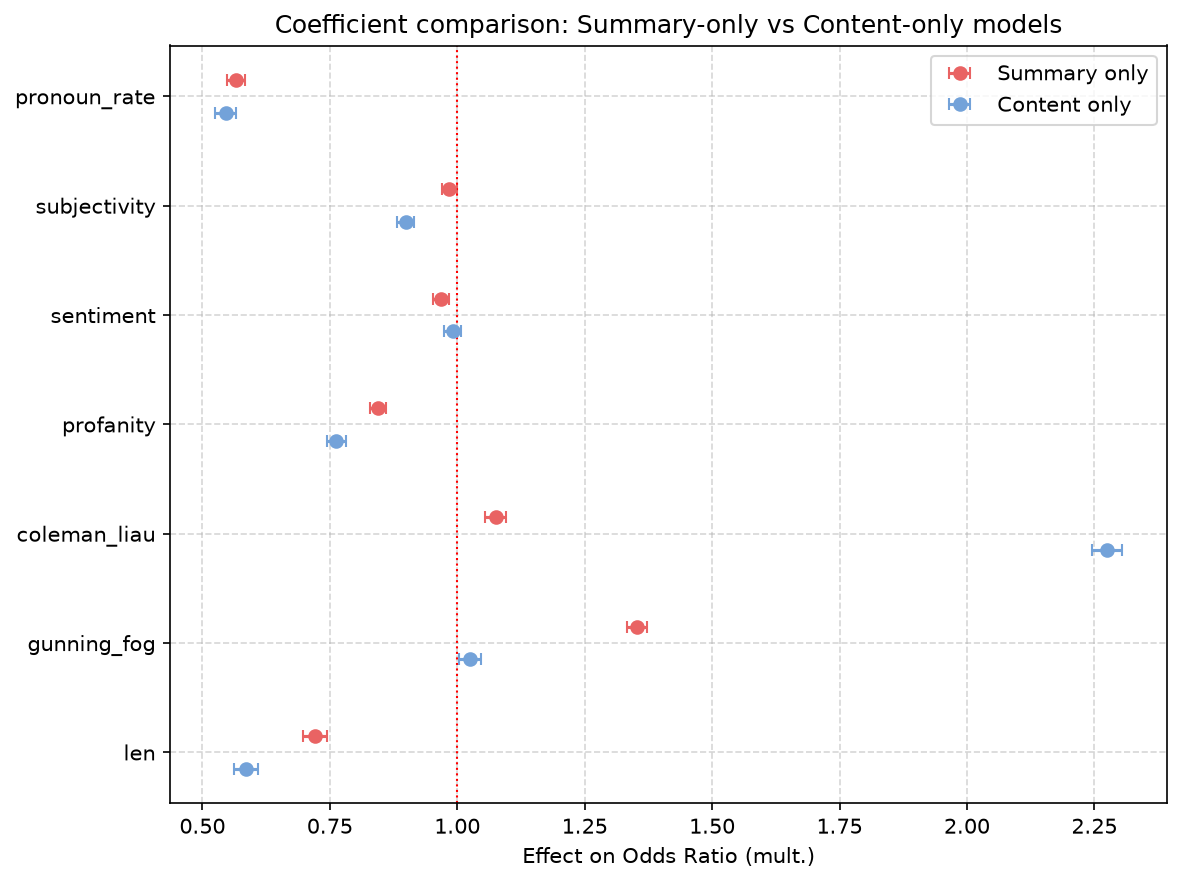
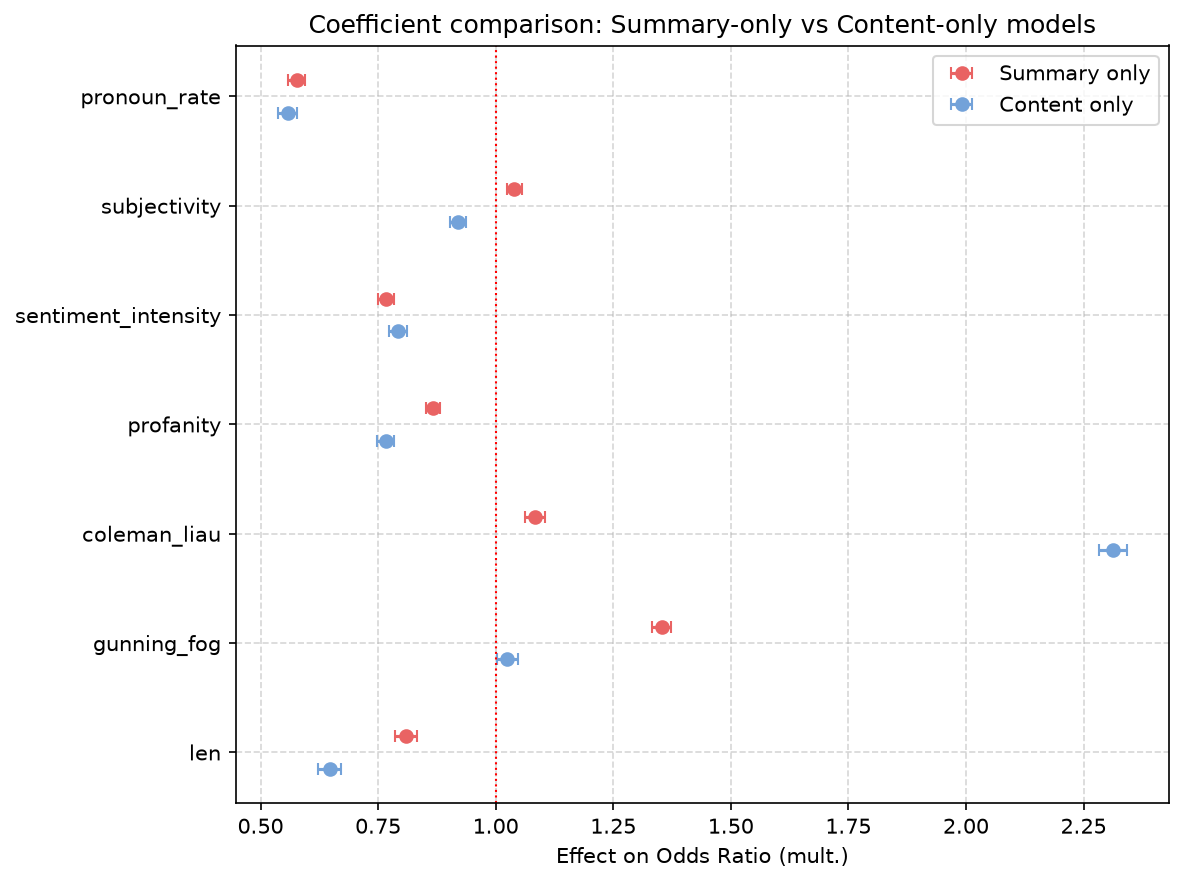
Update the figures and report

diff --git a/README.md b/README.md
@@ -138,23 +138,22 @@ Adding summary and cross-text features (cosine similarity, entity retention) to 
 
 ### Predictors
 
-A handful of features has revealed dominant contribution to the content-only model's prediction (Figure 3, Table 2). Lexical complexity, measured via the Coleman-Liau Index, shows the strongest effect (β = 0.82, OR = 2.28, 95% CI [2.21, 2.34]): a
-one-standard-deviation increase in lexical complexity more than doubles the
-odds of a post belonging to a science-related subreddit. First-person singular pronoun rate shows the second-strongest effect, in the opposite direction (β = -0.61, OR = 0.55, 95% CI [0.54, 0.56]) — more self-referential language is associated with roughly half the odds of being science-related, consistent with our hypothesis that personal, narrative language use is more characteristic of non-science subreddits. Content length is also negatively associated with the science label (β = -0.54, OR = 0.59), potentially reflecting a tendency toward longer, more narrative personal posts in non-science subreddits. Profanity (β = -0.27, OR = 0.76) and subjectivity (β = -0.11, OR = 0.90) show smaller negative effects, suggesting that
-science-related content tends to be more objective and less vulgar in tone. Sentiment and Gunning Fog show negligible, non-significant effects once Coleman-Liau is included in the model (95% CIs include 1 on the odds scale), indicating they add little independent information given the other features.
+A handful of features has revealed dominant contribution to the content-only model's prediction (Figure 3, Table 2). Lexical complexity, measured via the Coleman-Liau Index, shows the strongest effect (β = 0.84, OR = 2.31, 95% CI [2.25, 2.38]): a one-standard-deviation increase in lexical complexity more than doubles the odds of a post belonging to a science-related subreddit. First-person singular pronoun rate shows the second-strongest effect, in the opposite direction (β = -0.58, OR = 0.56, 95% CI [0.55, 0.57]) — more self-referential language is associated with roughly half the odds of being science-related, consistent with our hypothesis that personal, narrative language use is more characteristic of non-science subreddits. Content length is also negatively associated with the science label (β = -0.44, OR = 0.65), potentially reflecting a tendency toward longer, more narrative personal posts in non-science subreddits. Profanity (β = -0.27, OR = 0.77) and subjectivity (β = -0.08, OR = 0.92) show smaller negative effects, suggesting that
+science-related content tends to be more objective and less vulgar in tone. Gunning Fog shows a negligible, non-significant effect once Coleman-Liau is included in the model (95% CI includes 1 on the odds scale), indicating it adds little independent information given the other features.
 
 **Table 2: Content-only model — standardized coefficients and odds ratios**
 
 | Feature | β (log-odds) | 95% CI | Odds Ratio | 95% CI (OR) |
 |---|---|---|---|---|
-| Coleman-Liau Index | 0.82 | [0.79, 0.85] | 2.28 | [2.21, 2.34] |
-| Pronoun rate (I-words) | -0.61 | [-0.63, -0.59] | 0.55 | [0.54, 0.56] |
-| Content length | -0.54 | [-0.56, -0.51] | 0.59 | [0.57, 0.60] |
-| Profanity | -0.27 | [-0.29, -0.25] | 0.76 | [0.75, 0.78] |
-| Subjectivity | -0.11 | [-0.12, -0.09] | 0.90 | [0.88, 0.91] |
+| Coleman-Liau Index | 0.84 | [0.81, 0.87] | 2.31 | [2.25, 2.38] |
+| Pronoun rate (I-words) | -0.58 | [-0.60, -0.56] | 0.56 | [0.55, 0.57] |
+| Content length | -0.44 | [-0.46, -0.41] | 0.65 | [0.63, 0.66] |
+| Profanity | -0.27 | [-0.28, -0.25] | 0.77 | [0.75, 0.78] |
+| Subjectivity | -0.08 | [-0.10, -0.07] | 0.92 | [0.90, 0.94] |
 | Gunning Fog Index | 0.02 | [0.00, 0.05] | 1.03 | [1.00, 1.05] |
-| Sentiment | -0.01 | [-0.03, 0.01] | 0.99 | [0.97, 1.01] |
+| Sentiment Intensity | -0.23 | [-0.25, -0.21] | 0.79 | [0.78, 0.81] |
 
+![Coefficient Comparison](figures/coef_comparison_summary_content.png)
 *Figure 3: Standardized coefficient comparison between the Summary-only and Content-only models (`figures/coef_comparison_summary_content.png`).*
 
 ## Conclusion
